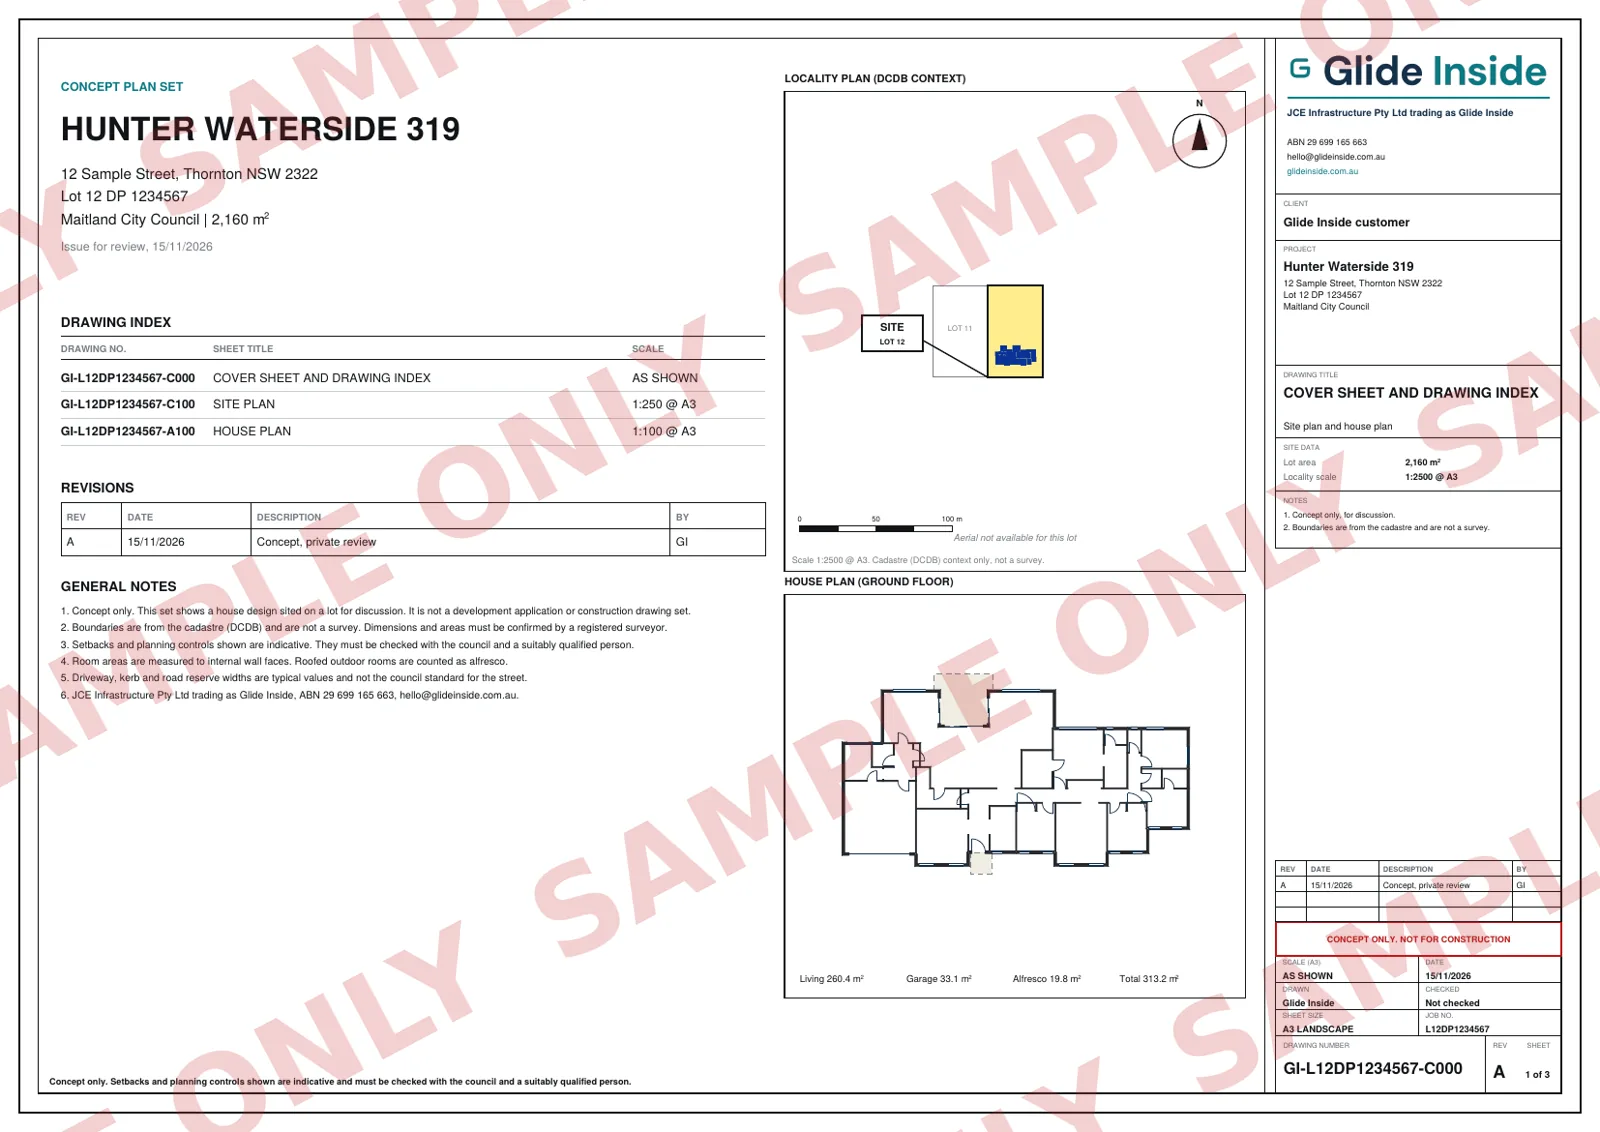
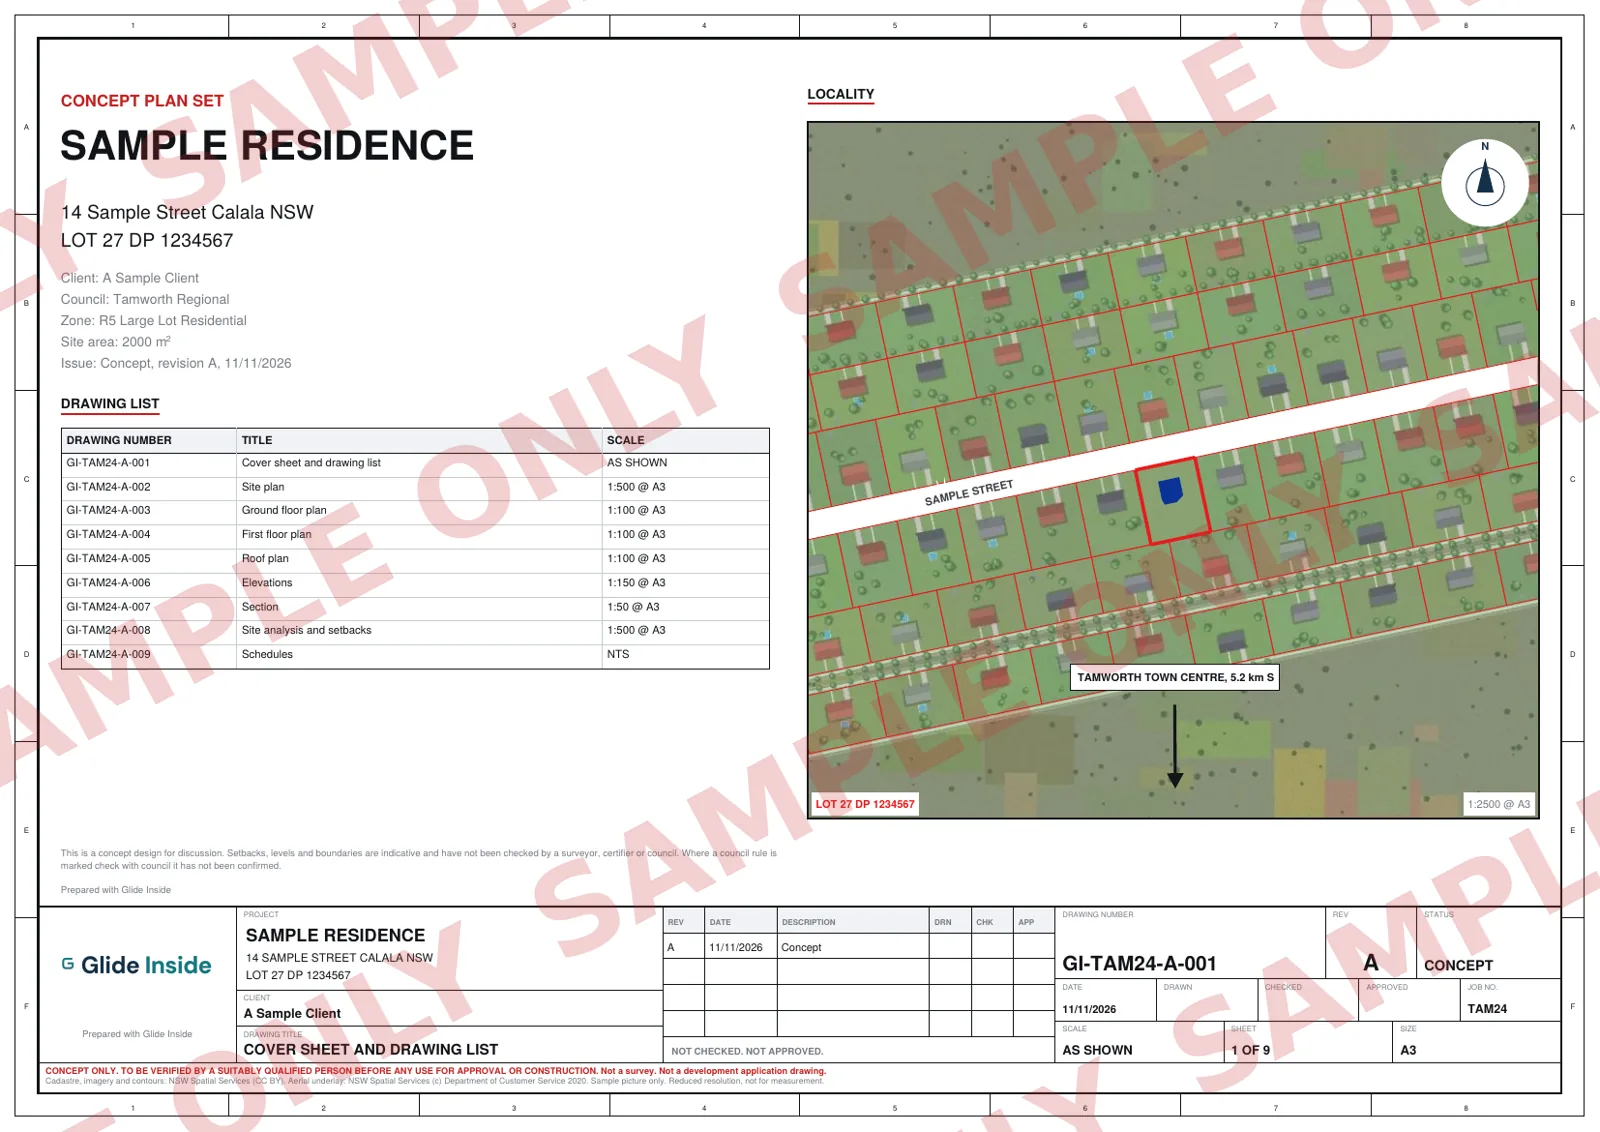
Site: generic Sample Residence sheets on the sample plan set page
Claude-Session: https://claude.ai/code/session_01AcQqUWYpmQcaYiwB8r1zsn

diff --git a/GlideInside/website-live/sample-plan-set/index.html b/GlideInside/website-live/sample-plan-set/index.html
@@ -61,9 +61,9 @@
 <section class="shell section" style="padding-top:12px">
   <div class="section-head"><h2>Residential plan set</h2><p>Sheets from a Glide Inside Residential plan set: cover and drawing list, site plan and floor plan, on A3 with a title block, scale bar and north point.</p></div>
   <div class="sample-grid">
-    <figure class="sample"><a href="../assets/sample-sheets/residential-cover-sheet.webp"><img src="../assets/sample-sheets/residential-cover-sheet.webp" width="1600" height="1132" alt="Cover sheet of a sample residential concept plan set with a drawing index, locality plan and title block" loading="lazy" decoding="async"></a><figcaption><b>Cover sheet and drawing list</b>Sheet C000. Locality plan, drawing index, revisions and general notes.</figcaption></figure>
-    <figure class="sample"><a href="../assets/sample-sheets/residential-site-plan.webp"><img src="../assets/sample-sheets/residential-site-plan.webp" width="1600" height="1132" alt="Site plan sheet of a sample residential concept plan set showing the house inside the lot boundary" loading="lazy" decoding="async"></a><figcaption><b>Site plan</b>Sheet C100. The house on the lot boundary with setback lines and the title block.</figcaption></figure>
-    <figure class="sample"><a href="../assets/sample-sheets/residential-ground-floor-plan.webp"><img src="../assets/sample-sheets/residential-ground-floor-plan.webp" width="1600" height="1132" alt="Ground floor plan sheet of a sample residential concept plan set with room areas and dimensions" loading="lazy" decoding="async"></a><figcaption><b>Ground floor plan</b>Sheet A100. Rooms, areas and dimension strings at 1:100 on A3.</figcaption></figure>
+    <figure class="sample"><a href="../assets/sample-sheets/residential-cover-sheet.webp?v=2"><img src="../assets/sample-sheets/residential-cover-sheet.webp?v=2" width="1600" height="1132" alt="Cover sheet of a sample residential concept plan set for a generic house, with a drawing list, locality plan and title block" loading="lazy" decoding="async"></a><figcaption><b>Cover sheet and drawing list</b>Sheet A-001. Locality plan and drawing list for a generic two storey sample house.</figcaption></figure>
+    <figure class="sample"><a href="../assets/sample-sheets/residential-site-plan.webp?v=2"><img src="../assets/sample-sheets/residential-site-plan.webp?v=2" width="1600" height="1132" alt="Site plan sheet of a sample residential concept plan set showing a generic house inside the sample lot boundary and setback envelope" loading="lazy" decoding="async"></a><figcaption><b>Site plan</b>Sheet A-002. The house on an invented sample lot with the setback envelope and title block.</figcaption></figure>
+    <figure class="sample"><a href="../assets/sample-sheets/residential-ground-floor-plan.webp?v=2"><img src="../assets/sample-sheets/residential-ground-floor-plan.webp?v=2" width="1600" height="1132" alt="Ground floor plan sheet of a sample residential concept plan set for a generic house, with room areas and dimensions" loading="lazy" decoding="async"></a><figcaption><b>Ground floor plan</b>Sheet A-003. Ground floor rooms, areas and dimension strings at 1:100 on A3.</figcaption></figure>
   </div>
 </section>
 <section class="shell section" style="padding-top:0">
